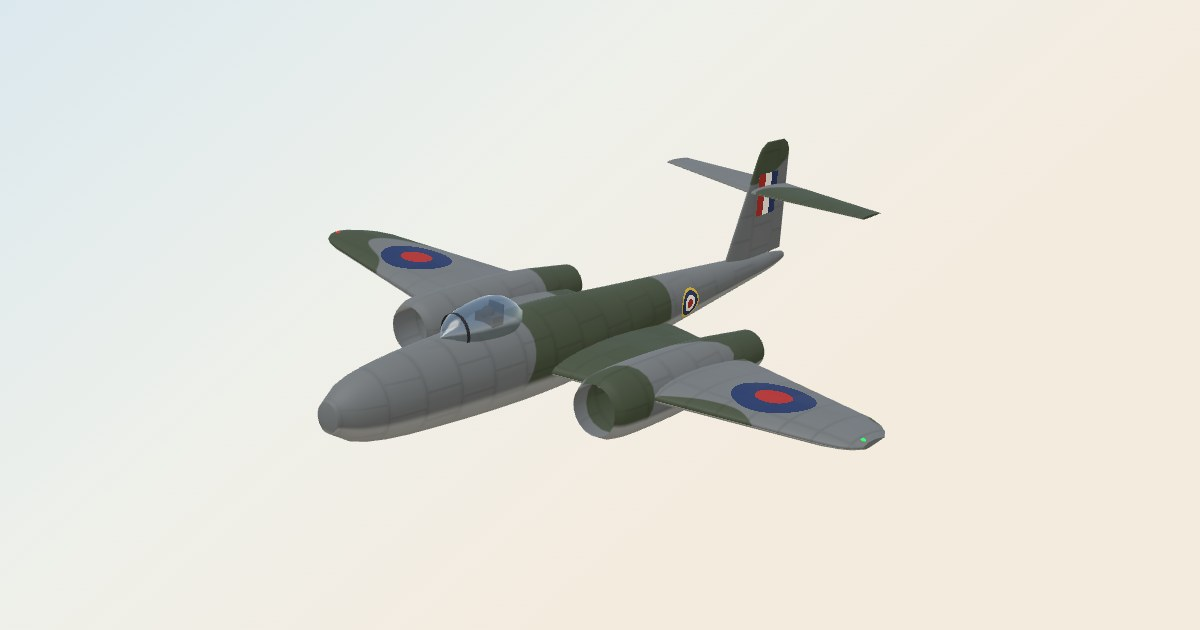
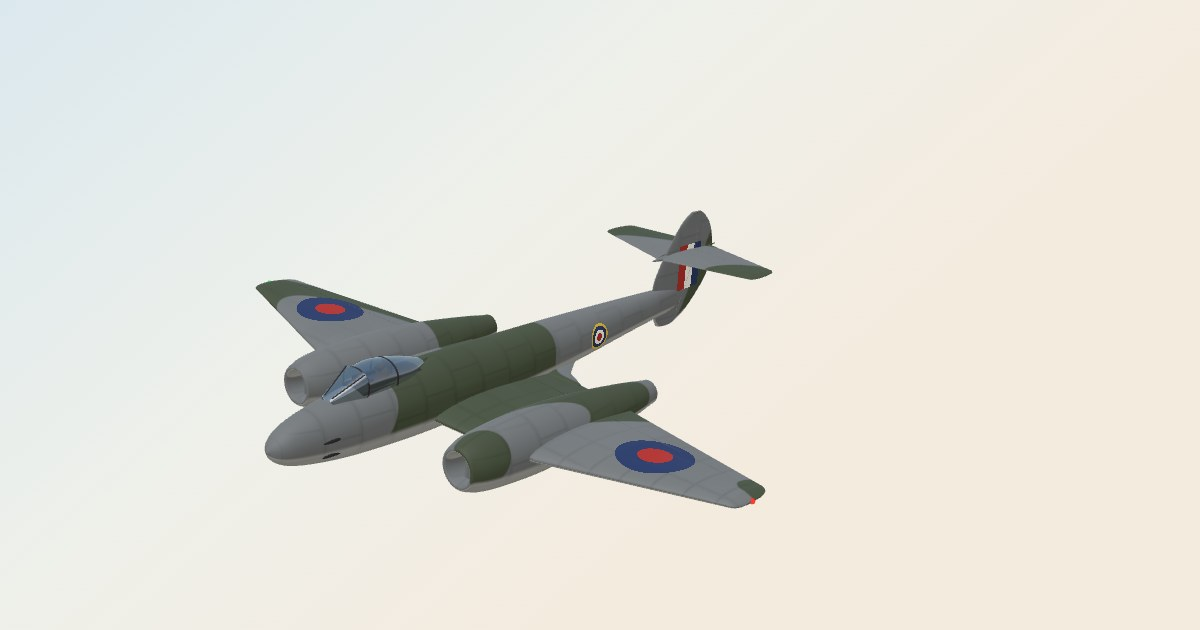
Meteor F.3 ayrıntılı model: üç görünüş çiziminden gövde, Derwent naselleri, haç kuyruk, dalış frenleri
- Kalın dudaklı naseller ve dikey ayırıcı, burun yanlarında dört 20 mm ağzı, damla kanopi
- İç ve dış kanat ayrı, kökte firar kaplaması; hareketli kumanda yüzeyleri, katlanır takım, ışıklar
- Dikey kuyruk kesitleri yüksek ayrıntıda yumuşar (F-84, F-86, F-80, Me 262 dahil); görselleri yenilendi
- gearHeight çizime göre

Changed region(s): [[0.2158, 0.2111, 0.74, 0.8143]]

diff --git a/src/render/models.ts b/src/render/models.ts
@@ -21,7 +21,7 @@ type Geo = THREE.BufferGeometry;
 let DETAIL = 1;
 /** Yüksek ayrıntıda ek çözünürlük çarpanı (videosu çekilen uçaklarda daha çok kenar ve profil noktası). */
 let RES = 1;
-const HIRES: Record<string, number> = { mig15: 2.4, sabre: 1.6, f84: 1.6, p80: 1.6, me262: 1.6 };
+const HIRES: Record<string, number> = { mig15: 2.4, sabre: 1.6, f84: 1.6, p80: 1.6, me262: 1.6, meteor: 1.6 };
 /** Dönel parçaların kenar sayısı ayrıntıya göre. */
 const sg = (n: number) => (DETAIL ? Math.round(n * 2.25 * RES) : n);
 
@@ -594,8 +594,13 @@ function controlFin(f: Fin, xh: number, k0: number, k1: number): Geo[] {
  * Çizimden alınan dikey kuyruk (ortada, tek): yükseklik başına [y, hücum kenarı z, veter], alttan üste (ilk kesit
  * gövdeye gömülü). [i0, i1] kesitleri arasında veterin xh'tan arkası 'rudder' eklemi. Kalınlık tepeye doğru incelir.
  */
-function jetFin(list: [number, number, number][], t: number, xh: number, i0: number, i1: number): Geo[] {
+function jetFin(raw: [number, number, number][], t: number, xh: number, r0: number, r1: number): Geo[] {
   const side = new THREE.Vector3(1, 0, 0);
+  // Yüksek ayrıntıda kesitler yumuşar (kenar köşeli kalmasın); dümen sınırları en yakın kesite
+  const list = (DETAIL ? chaikinN(raw, 2) : raw) as [number, number, number][];
+  const near = (y: number) => list.reduce((b, q, i) => (Math.abs(q[0] - y) < Math.abs(list[b][0] - y) ? i : b), 0);
+  const i0 = near(raw[r0][0]);
+  const i1 = near(raw[r1][0]);
   const y0 = list[0][0];
   const top = list[list.length - 1];
   const mid = list[Math.floor(list.length / 2)];
@@ -1116,6 +1121,15 @@ function schwalbeGear(gh: number): Geo[] {
   });
 }
 
+/** Meteor takımı: iç kanattan iner (3,1 m iz), burun bacağı arkaya toplanır. */
+function meteorGear(gh: number): Geo[] {
+  return jetGear({
+    main: { x: 1.57, z: 0, top: -0.4, axle: -gh + 0.39, rw: 0.39, tw: 0.2, dx: 0.04, door: { dx: 0.11, top: -0.46, bot: -1.14, w: 0.52, r: 0.12 } },
+    nose: { topY: -0.5, topZ: 3.75, axle: -gh + 0.31, z: 3.97, rw: 0.31, tw: 0.15 },
+    belly: { x: 0.26, y: -0.58, z0: 3.7, z1: 2.6, h: 0.26 },
+  });
+}
+
 /**
  * Kanopi: gövde üstünde yarı gömülü damla. Çerçeve: ön cam kenarında ince koyu bant; kabarcık olmayan (çerçeveli)
  * kanopide ortada ve arkada da birer bant.
@@ -1325,19 +1339,77 @@ function defineModel(key: string): ModelDef {
         rockets: rocketRow([3.0, 3.5, 4.0, 4.5], -0.85, 1.4),
         bombs: mirror(2.4, (x) => bombAt(x, -0.9, 1.0, 1.3)),
       };
-    case 'meteor':
+    case 'meteor': {
+      // Meteor F.3, ölçüler F.4 üç görünüş çiziminden; kanat ucu F.3'ün 13,1 m açıklığına uzatıldı. İnce uzun gövde,
+      // burun yanlarında dört 20 mm ağzı. Kanadın ortasından geçen kalın Derwent naselleri: geniş dudak, ortada dikey
+      // ayırıcı. Kökte büyük içbükey firar kaplaması, iç kanat üstünde dalış frenleri. Yatay kuyruk dikey kuyruğu haç
+      // gibi keser; dikey kuyruk gövdenin altına da iner, tepesi yuvarlak.
+      const H = new JetHull([
+        [4.6, 0.01, -0.1, -0.14, -0.12], [4.46, 0.26, 0.11, -0.355, -0.12], [4.09, 0.4, 0.33, -0.51, -0.1], [3.24, 0.56, 0.51, -0.635, -0.08], [2.31, 0.63, 0.64, -0.69, -0.04],
+        [1.0, 0.645, 0.72, -0.73, -0.02], [-0.87, 0.61, 0.68, -0.61, 0.02], [-2.92, 0.5, 0.65, -0.42, 0.08], [-5.54, 0.26, 0.58, -0.14, 0.22], [-6.5, 0.14, 0.53, -0.08, 0.24], [-7.0, 0.03, 0.46, 0.0, 0.24],
+      ], 2.15);
+      const Wi: WingOpts = { x0: 0.4, z: 1.25, root: 3.4, y: -0.28, tipX: 2.5, tip: 3.25, sweep: 0.08, dihedral: 0, t: 0.42 };
+      const W: WingOpts = { x0: 2.97, z: 1.05, root: 2.96, y: -0.26, tipX: 6.55, tip: 1.07, sweep: 0.93, dihedral: 3.9, t: 0.35 };
+      const T: WingOpts = { x0: 0.06, z: -6.01, root: 1.85, y: 1.28, tipX: 2.0, tip: 0.95, sweep: 0.55, dihedral: 0, t: 0.13 };
+      const tipY = W.y + (W.tipX - W.x0) * tanD(W.dihedral);
+      const up = new THREE.Vector3(0, 1, 0);
+      const NX = 2.3;
+      const NY = -0.31;
+      const nacelle = (sd: number): Geo[] => {
+        const o = { x: sd * NX, y: NY };
+        return [
+          body([[1.75, 0.24], [2.1, 0.26], [2.24, 0.31], [2.26, 0.37], [2.2, 0.43], [1.84, 0.55], [0.86, 0.62], [0.21, 0.625], [-0.87, 0.56], [-2.32, 0.37], [-2.92, 0.26], [-3.02, 0.25]], 12, { ...o, smooth: true }),
+          tag(body([[1.4, 0.21], [1.76, 0.235]], 12, o), 'dark'),
+          tag(new THREE.CircleGeometry(0.21, sg(12)).translate(o.x, o.y, 1.4), 'dark'),
+          new THREE.BoxGeometry(0.13, 0.5, 0.55).translate(o.x, o.y, 1.72),
+          tag(body([[-3.01, 0.235], [-2.5, 0.2]], 12, o), 'dark'),
+          tag(new THREE.CircleGeometry(0.2, sg(12)).rotateY(Math.PI).translate(o.x, o.y, -2.5), 'dark'),
+          tag(new THREE.ConeGeometry(0.09, 0.26, sg(8)).rotateX(-Math.PI / 2).translate(o.x, o.y, -2.64), 'dark'),
+        ];
+      };
       return {
         solids: [
-          fuselage({ noseZ: 6.0, tailZ: -6.5, r: 0.78, sy: 1.1, noseR: 0.3, peak: 0.4, rise: 0.35 }),
-          canopy(2.6, 2.0, 0.48, 0.78, 0.45, true),
-          ...wing({ x0: 0.7, z: 1.6, root: 3.6, y: -0.15, tipX: 6.55, tip: 1.3, sweep: 0.7, dihedral: 4, t: 0.42, shape: 'rounded' }),
-          ...mirror(2.3, (x) => jetPod(x, -0.15, 2.2, 4.4, 0.62)),
-          ...fins({ y0: 0.5, z0: -4.4, h: 2.2, root: 2.0, tip: 1.0, sweep: 0.9, t: 0.14 }),
-          ...wing({ x0: 0.05, z: -5.0, root: 1.3, y: 1.7, tipX: 2.5, tip: 0.7, sweep: 0.4, dihedral: 0, t: 0.12 }),
+          H.geo(13),
+          ...[1, -1].flatMap((sd) => [[-0.02, 3.5], [-0.31, 3.5]].map(([y, z]) => portAt(sd * H.sideX(z, y), y, z, 0.035, 0.27))),
+          tag(H.patch(1, 2.7, 1.3, Math.PI / 2 - 0.4, Math.PI / 2 + 0.4, 0.006), 'dark'),
+          ...jetCanopy({
+            screen: [[3.29, 0.16, 0.56, 0.3, 0.52], [2.64, 0.355, 0.95, 0.3, 0.68]],
+            glass: [[2.64, 0.355, 0.95, 0.3, 0.68], [2.31, 0.38, 1.01, 0.3, 0.7], [1.98, 0.38, 0.98, 0.3, 0.7], [1.5, 0.33, 0.88, 0.3, 0.7], [1.12, 0.12, 0.76, 0.4, 0.7]],
+            aft: [[1.15, 0.14, 0.77, 0.4, 0.7], [1.05, 0.06, 0.745, 0.4, 0.69], [0.92, 0.015, 0.725, 0.5, 0.68]],
+            frames: [2.64, 1.98],
+            posts: [[0.1, 0.57, 3.27], [0.26, 0.92, 2.66]],
+            pilot: { z: 2.15, len: 1.6, h: 0.34, y: 0.68, w: 0.36 },
+          }),
+          // İç kanat (nasele kadar, flaplı) ve dış kanat (kanatçık); uç yuvarlak
+          ...controlWing(Wi, 0.78, [[0, 0.62, 'flap'], [0.62, 1, null]]),
+          ...controlWing(W, 0.76, [[-0.2, 0, null], [0, 0.92, 'aileron'], [0.92, 1, null]], 3),
+          // Kökteki içbükey firar kaplaması
+          ...[1, -1].map((sd) => airfoilPart([
+            { le: new THREE.Vector3(sd * 0.35, -0.28, -1.95), c: 1.0, t: 0.13 },
+            { le: new THREE.Vector3(sd * 0.72, -0.28, -2.0), c: 0.42, t: 0.08 },
+            { le: new THREE.Vector3(sd * 1.25, -0.28, -2.05), c: 0.1, t: 0.03 },
+          ], up, 0, 1)),
+          ...nacelle(1),
+          ...nacelle(-1),
+          // Dalış frenleri: iç kanat üstünde, arka kenarından menteşeli, ön kenarı kalkar; altında koyu yuva
+          ...[1, -1].flatMap((sd) => [
+            tag(new THREE.BoxGeometry(0.74, 0.008, 0.17).translate(sd * 1.26, -0.178, -1.2), 'dark'),
+            ...joint(sd > 0 ? 'airbrakeL' : 'airbrakeR', [sd * 1.26, -0.17, -1.3], [new THREE.BoxGeometry(0.78, 0.014, 0.2).translate(sd * 1.26, -0.17, -1.2)], false, [sd, 0, 0]),
+          ]),
+          ...controlWing(T, 0.6, [[0, 0.96, 'elevator'], [0.96, 1, null]], 2.5),
+          ...jetFin([[-0.35, -6.1, 0.7], [-0.14, -5.96, 1.26], [0.6, -5.8, 2.12], [1.12, -6.05, 1.93], [1.4, -6.24, 1.71], [1.78, -6.52, 1.31], [2.06, -6.77, 0.82], [2.2, -7.04, 0.33]], 0.17, 0.58, 1, 5),
+          body([[-5.75, 0.01], [-6.1, 0.08], [-7.2, 0.08], [-8.08, 0.01]], 8, { y: 1.28, sy: 0.7, smooth: true }),
         ],
         props: [],
-        tank: [tankAt(-0.95, 0.4, 0, 1.0)],
+        markZ: -3.6,
+        lights: [
+          { p: [W.tipX + 0.2, tipY, W.z - W.sweep - W.tip * 0.45], kind: 'red' },
+          { p: [-W.tipX - 0.2, tipY, W.z - W.sweep - W.tip * 0.45], kind: 'green' },
+          { p: [0, 0.9, -8.0], kind: 'white' },
+          { p: [1.2, -0.56, 0.9], kind: 'landing' },
+        ],
       };
+    }
     case 'sabre': {
       // F-86F, ölçüler üç görünüş çiziminden. Yumurta kesitli derin gövde, üst dudağında siyah radar kubbesi olan oval
       // burun girişi, burun yanlarında üçer silah ağzı, damla kanopi. 6-3 kanat (35° ok, 3° dihedral, açıklığın
@@ -2481,6 +2553,7 @@ function landingGear(probe: Probe, bb: THREE.Box3, spec: AircraftSpec | undefine
   if (kind === 'f84') return thunderjetGear(gearHeight(spec));
   if (kind === 'p80') return shootingStarGear(gearHeight(spec));
   if (kind === 'me262') return schwalbeGear(gearHeight(spec));
+  if (kind === 'meteor') return meteorGear(gearHeight(spec));
   const gh = spec.span > 25 ? 3.4 : spec.engines > 1 ? 2.6 : 1.9;
   const half = bb.max.x;
   const tricycle = !spec.tailDragger;

diff --git a/src/sim/aircraft/flightModel.ts b/src/sim/aircraft/flightModel.ts
@@ -78,6 +78,7 @@ export function gearHeight(spec: AircraftSpec): number {
   if (spec.id === 'f84g') return 1.62;
   if (spec.id === 'f80c') return 1.45;
   if (spec.id === 'me262') return 1.88;
+  if (spec.id === 'meteor3') return 1.62;
   return spec.span > 25 ? 3.4 : spec.engines > 1 ? 2.6 : 1.9;
 }
 
